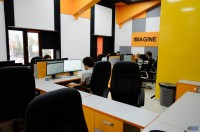
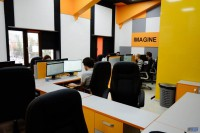
fix gallery v2. add gallery content

diff --git a/app/Logic/ImageRepository.php b/app/Logic/ImageRepository.php
@@ -95,11 +95,8 @@ class ImageRepository
     public function icon( $photo, $filename )
     {
         $manager = new ImageManager();
-        $image = $manager->make( $photo )->resize(200, null, function ($constraint) {
-            $constraint->aspectRatio();
-        })
+        $image = $manager->make( $photo )->resize(200, 133)
             ->save( $this->dirIcon  . $filename );
-
         return $image;
     }
 
